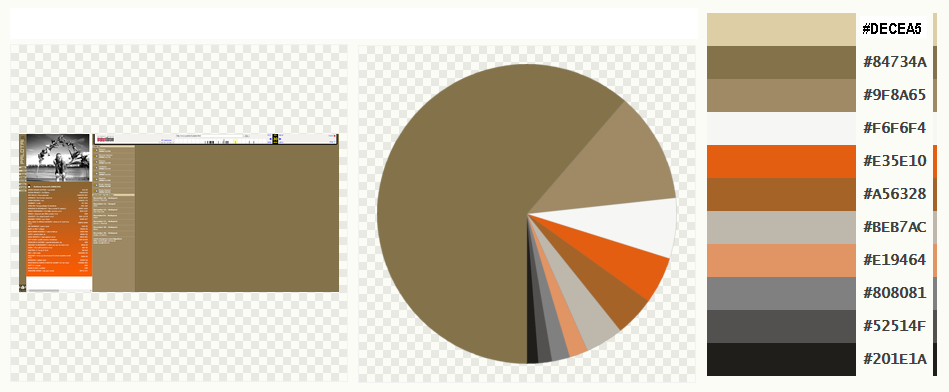
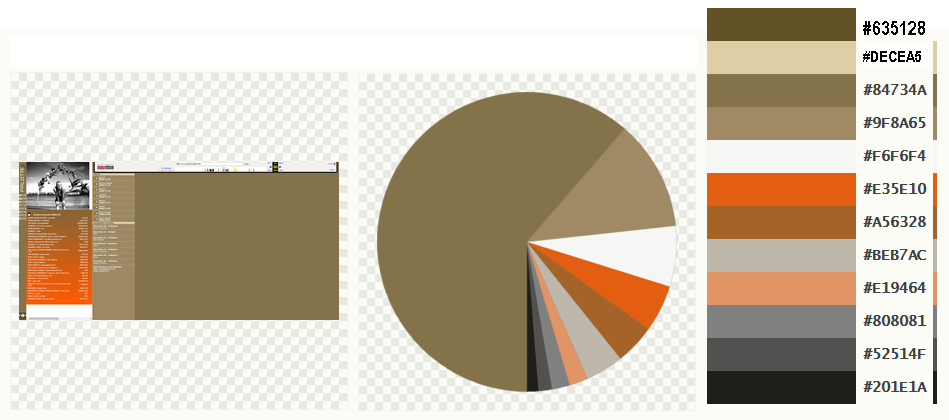
color palette

diff --git a/colors.md b/colors.md
@@ -1,20 +1,19 @@
-# Old website color palette:
+## Color palette
+#### Used on the old website
+![Color palette](color-palette.png)
 
-+ **\#f6f6f4**
+HEX | RGB
+--: | :---
+`#f6f6f4` | `rgb(246,246,244)`
+`#decea5` | `rgb(222,206,165)`
+`#9f8a65` | `rgb(159,138,101)`
+`#84734a` | `rgb(132,115,74)`
+`#635128` | `rgb(99,81,40)`
+`#e35e10` | `rgb(227,94,16)`
+`#a56328` | `rgb(165,99,40)`
+`#e19464` | `rgb(225,148,100)`
+`#beb7ac` | `rgb(190,183,172)`
+`#808081` | `rgb(128,128,129)`
+`#52514f` | `rgb(82,81,79)`
+`#201e1a` | `rgb(32,30,26)`
 
-
-+ **\#decea5**
-+ **\#9f8a65**
-+ **\#84734a**
-+ **\#635128**
-
-
-+ **\#e35e10**
-+ **\#a56328**
-+ **\#e19464**
-
-
-+ **\#beb7ac**
-+ **\#808081**
-+ **\#52514f**
-+ **\#201e1a**
